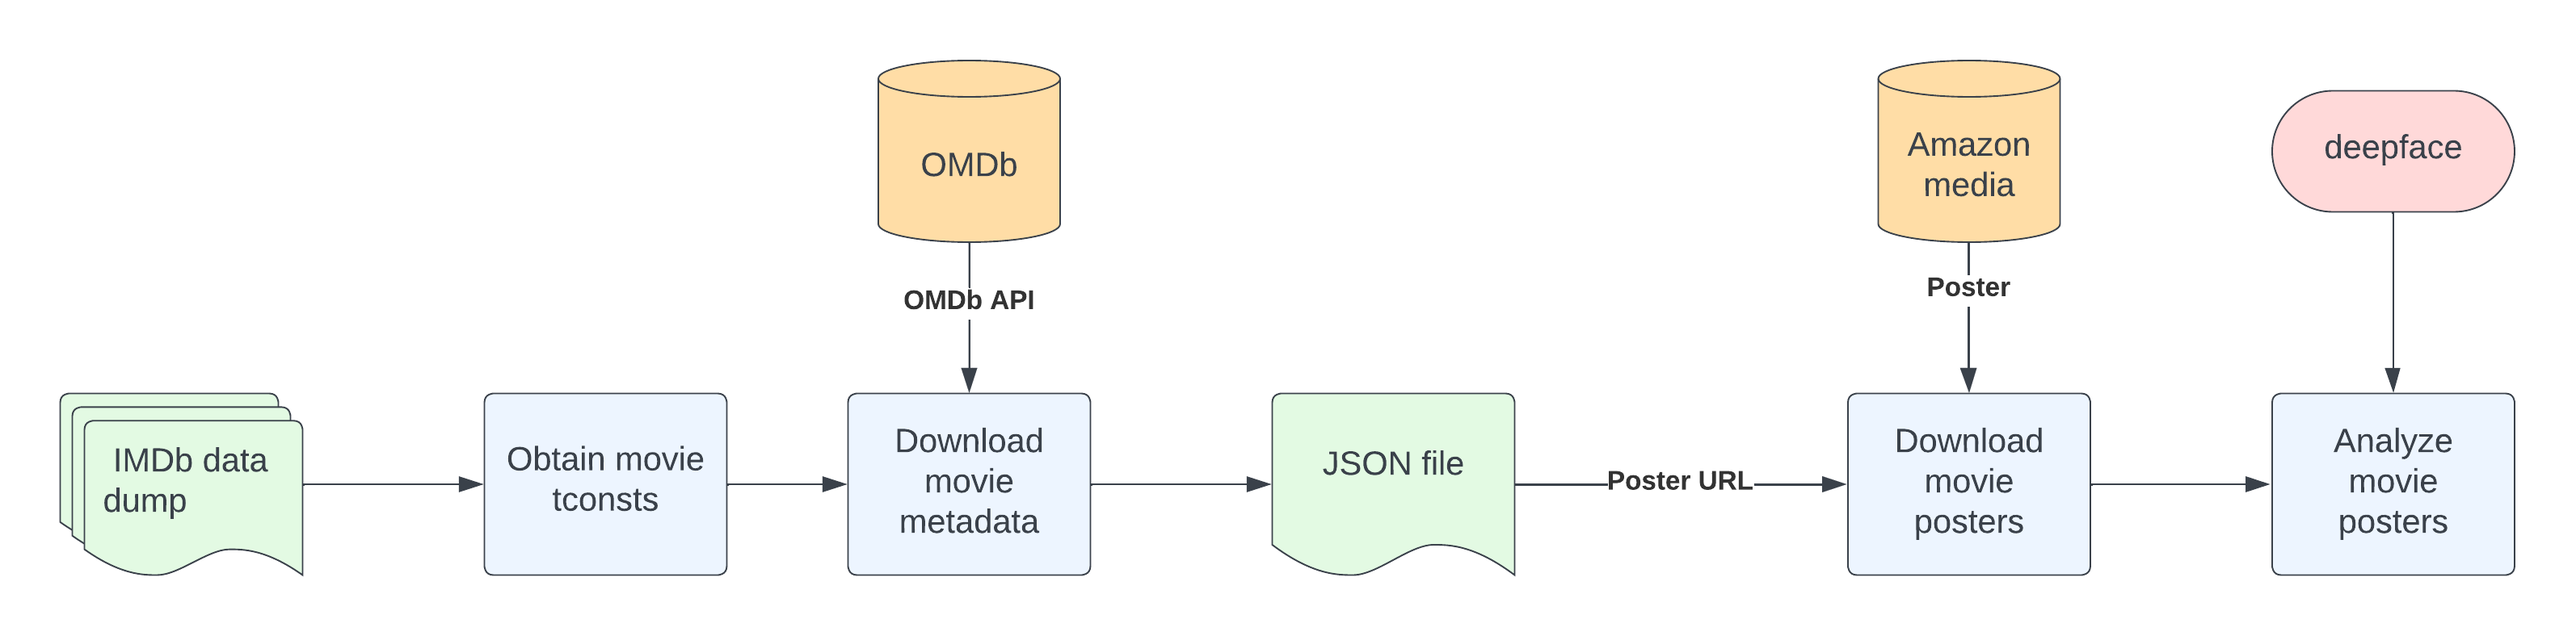
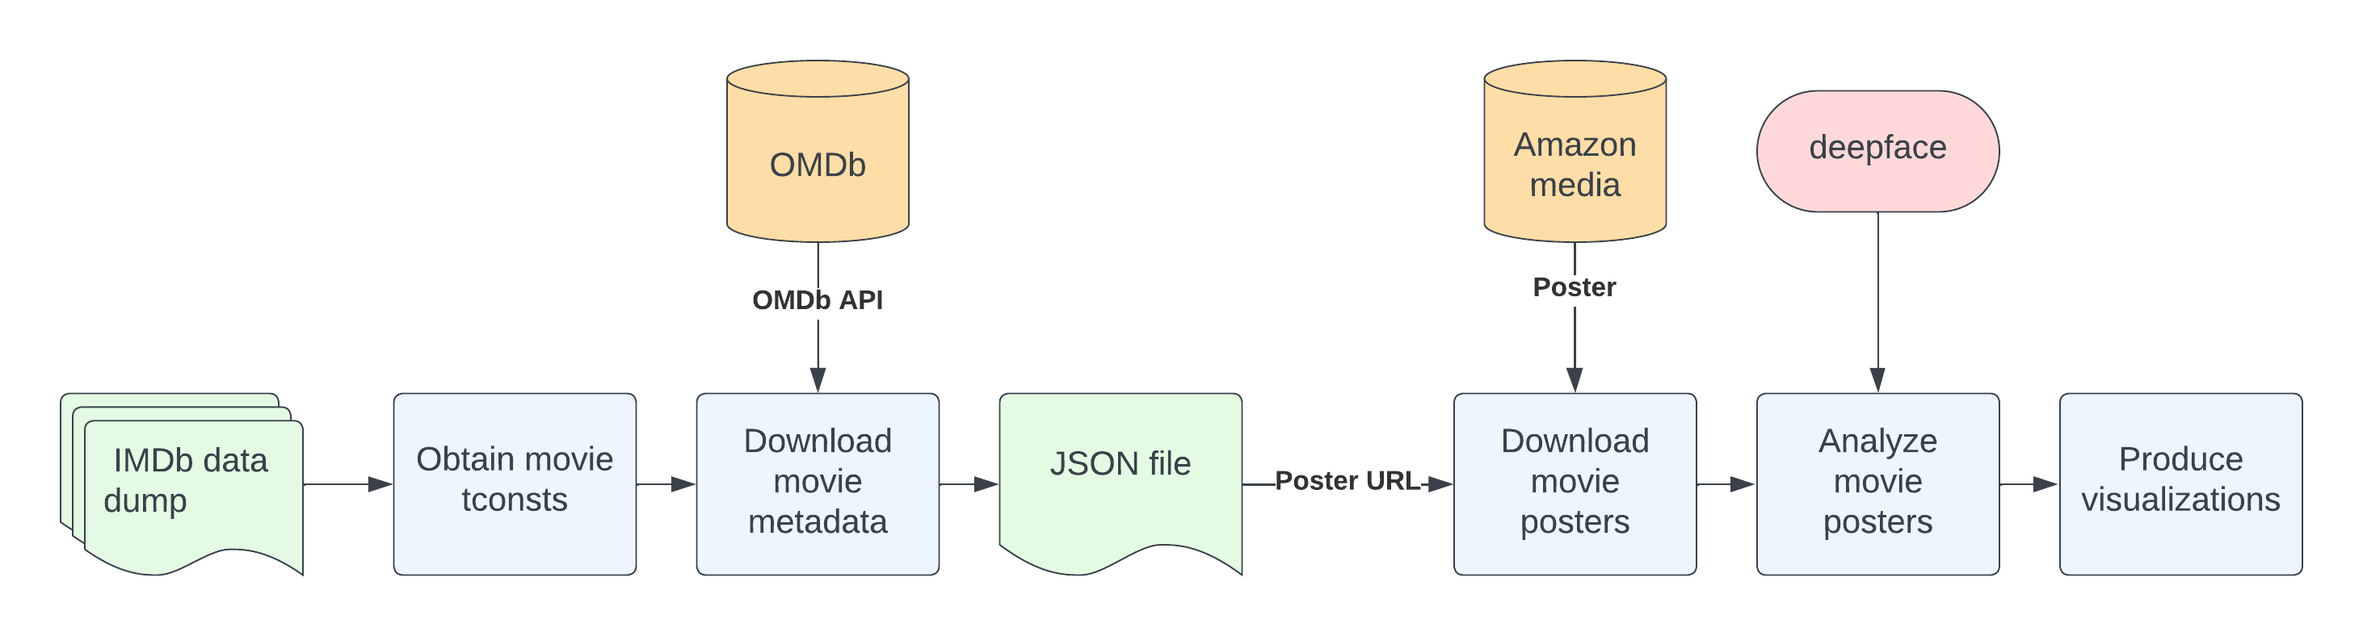
updated README

diff --git a/README.md b/README.md
@@ -69,7 +69,7 @@ python3 analyzeMoviePosters.py [posterDir metadataFile]
 #### Example:
 
 ```
-python3 analyzeMoviePosters.py movies movies.json
+python3 analyzeMoviePosters.py posters omdb_movies.json
 ```
 
 #### Output:
@@ -93,3 +93,22 @@ The program outputs one CSV for all movie posters that were successfully process
 * 'women'
 
 The program also prints and saves a list of posters for which it was unable to detect at least one face, or for which an error was encountered during processing.
+
+### 5. `produceVisualizations.py`
+
+#### Usage:
+
+Supply the path to the diversity dataset.
+
+```
+python3 produceVisualizations.py [diversityDatasetFile ]
+```
+
+#### Example:
+
+```
+python3 produceVisualizations.py posters GT-GLOBAL-diversity-dataset.csv
+```
+
+#### Output:
+The program outputs several graphs.
